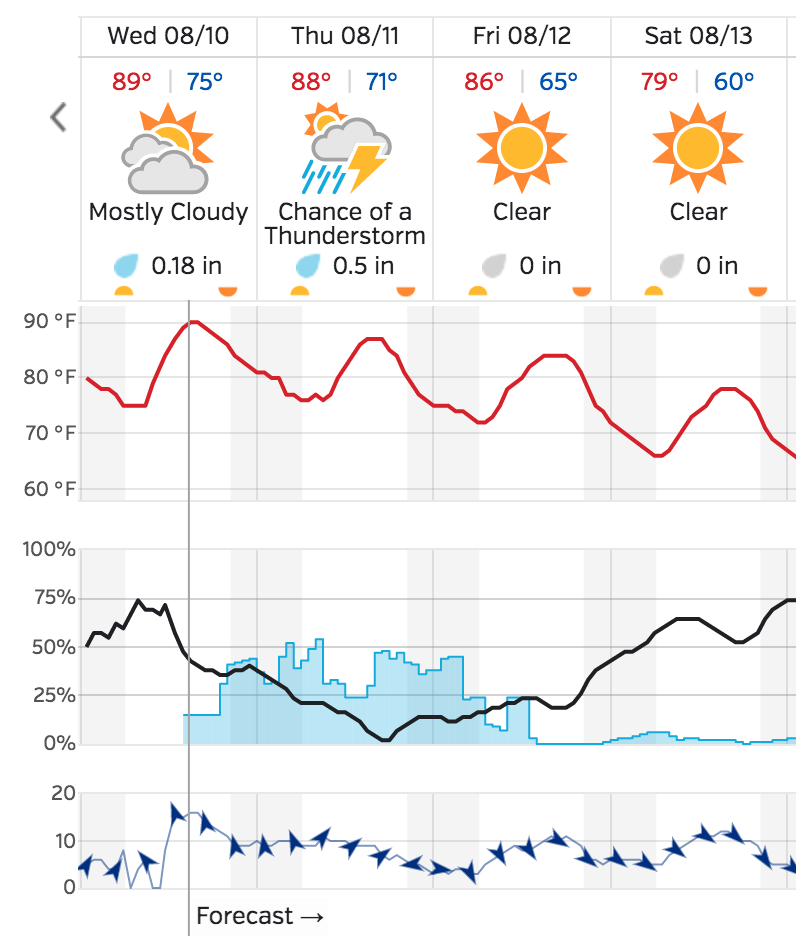
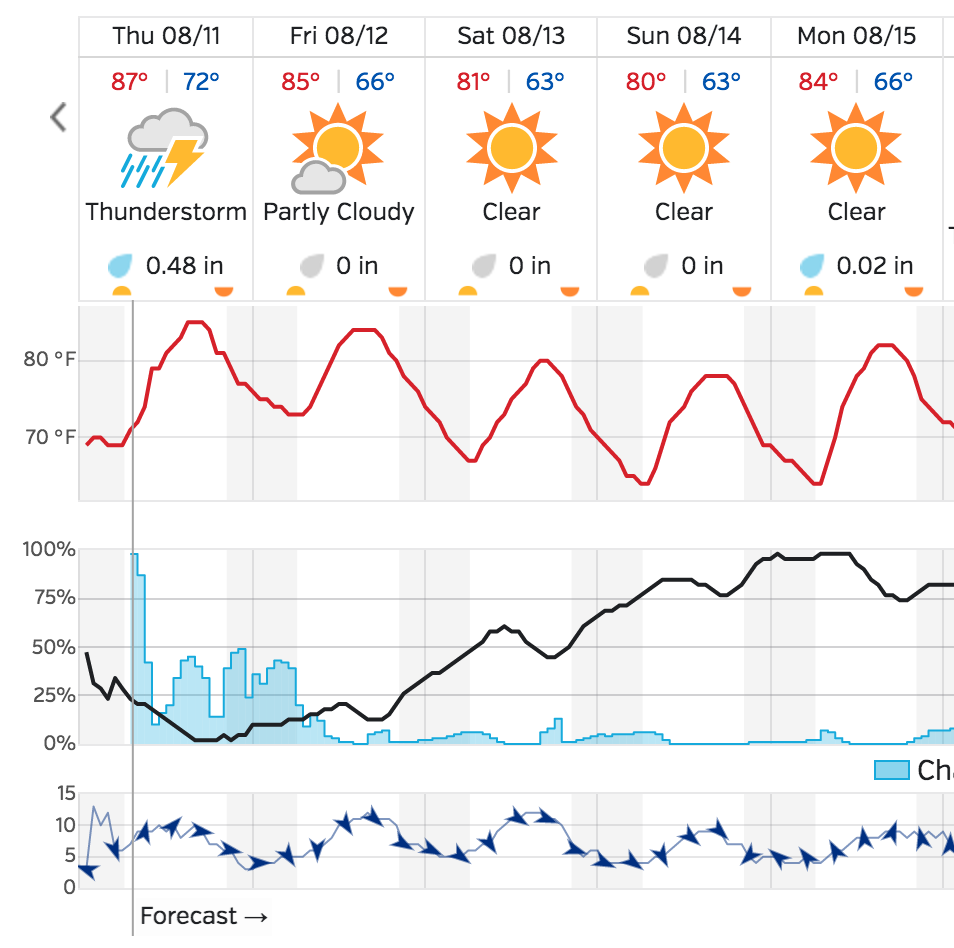
Added final remarks

diff --git a/javascript-flow/index.html b/javascript-flow/index.html
@@ -107,7 +107,7 @@
 				</section>
 
 				<section>
-					<h1 style="text-transform: none;">Using Flow</h1>
+					<p>Using Flow</p>
 				</section>
 
 				<section>
@@ -207,12 +207,36 @@
 				</section>
 
 				<section>
-					<p>Nullable types</p>
+					<p>Maybe types</p>
 					<code>let o: ?string</code>
 				</section>
 
 				<section>
 					<p>Flow coverage</p>
+				</section>
+
+				<section>
+					<p>Built-in types</p>
+				</section>
+
+				<section>
+					<p>The <code>any</code> type</p>
+				</section>
+
+				<section>
+					<p>The <code>mixed</code> type</p>
+					<code>function takesMixed(x: mixed): void {}</code>
+				</section>
+
+				<section>
+					<p>Other built-in type declarations</p>
+					<ul>
+						<li>JavaScript Standard Library</li>
+						<li>Browser Object Model</li>
+						<li>DOM</li>
+						<li>Node.js Standard Library</li>
+						<li>React</li>
+					</ul>
 				</section>
 
 				<section>
@@ -224,16 +248,24 @@
 				</section>
 
 				<section>
+					<p>Notable supported projects</p>
+					<ul>
+						<li>Express</li>
+						<li>Moment</li>
+						<li>Mocha</li>
+						<li>Rx.js</li>
+						<li>Underscore</li>
+						<li>Redux</li>
+					</ul>
+				</section>
+
+				<section>
 					<p>Editor support</p>
 					<ul>
 						<li><code>vim-flow</code></li>
 						<li><code>flow-for-vscode</code></li>
 						<li><code>nuclide</code></li>
 					</ul>
-				</section>
-
-				<section>
-					<p>Built-in types</p>
 				</section>
 
 				<section>

diff --git a/javascript-flow/README.md b/javascript-flow/README.md
@@ -8,9 +8,7 @@ I'm Aaron. If you've seen Key and Peele, when you hear Aaron, you might think A-
 
 [display image of key and peele a-a-ron]
 
-So if you see me after the talk and you want to chat. You can break the ice with something like "You done messed up A-A-RON".
-
-I work at a company call YA, formerly Young America, if you've ever sent in a paper rebate, you may remember sending it to Norwood Young America, Minnesota. So I work on a platform for digital marketing that includes rebates as part of the product line.
+So if you see me after the talk and you want to chat about flow. You can break the ice with something like "You done messed up A-A-RON".
 
 [display images of social media usernames]
 
@@ -18,7 +16,7 @@ You can find me on Twitter, Github at these places. I tweet about only really im
 
 [display image of Wunderground temps for Minneapolis]
 
-By the way, today the high temp for today will be.
+If you're wondering about the weather. Rain is the weather today, so it's a good day to be learning about flow.
 
 [display image asking for questions]
 
@@ -307,9 +305,9 @@ Flow offers enums. Here we have a `Response` type that can have any of the strin
 
 [display slide about maybe types]
 
-There are several different words to describe the concept of a variable that has a type that may or may not hold a value. C# has a Nullable generic type, Java has the Optional generic type, and Haskell has the Maybe. In all cases the idea is that the underlying value of a variable could be null or a completely different type.
+There are several different words to describe the concept of a variable that has a type that may or may not hold a value. C# has a Nullable generic type, Java has the Optional generic type, and Haskell has the Maybe. Flow calls these Maybe types. In all cases the idea is that the underlying value of a variable could be null or a completely different type.
 
-In the case on the screen the variable 'o' has be declared and could be a string, null, or undefined.
+In the case on the screen the variable 'o' maybe is a string and may be undefined or null.
 
 So far I've just scratched the surface of the expressiveness of flow's type system. There's much more that I won't be able to cover today. So it's worth a look at the documentation to see what flow offers.
 
@@ -338,25 +336,54 @@ So flow reports that we have about 66 percent coverage. So not having full cover
 
 So now we can see flow highlighting several areas that are affecting coverage. And if we add back the type annotation we can get to full coverage on this script. So the coverage report can be a very useful tool for identifying areas where useful types can be added.
 
+## Built-in types
+
+Flow offers a lot in the way of built-in types.
+
+[display slide about "Built in types"]
+
+Aside for the basic JavaScript types, string, number, boolean, null and void flow offers a few special types.
+
+[display slide about "any" type]
+
+The any type is simultaneously a subtype and supertype of everything. It's an outlier that is specially treated and it's often used when you just want to tell flow to get out of the way. Use of the `any` type should always be used with caution because in many ways it bypasses the type system.
+
+[display slide about "mixed" type]
+
+Flow offers another type called `mixed`. It's distinguishable from the `any` type because it is a supertype of everything but not a subtype of everything. The documentation describes mixed as a more annoying form of any. If a parameter has a mixed type flow still handles errors based on the underlying type of variable. So if the type is really a string flow won't ever throw an error when passing a string into a function like `takesMixed` on the screen. But if you try to call methods that strings don't have, you will get type errors. So it's often better to use the `mixed` type instead of the `any` type to get the maximum benefits from using flow.
+
+[display slide about other built-in types]
+
+Flow also offers the necessary type declarations for the JavaScript standard library, browser object APIs and the DOM APIs. And the node.js standard library.
+
+And the last set of library definitions flow offers is specifically for working with React. Flow has a built-in understanding of prop types and state, and can work with JSX out-of-the-box.
+
 ## Working with code you don't own
 
 [display title slide "Working with code you don't own"]
 
 It's a reality to be working with third-party code that you didn't write and probably doesn't have types exported. The community for having types in JavaScript is small compared to the overall size of the entire community. So a lot of libraries won't have type definitions.
 
+[display slide about the flow-typed repo]
+
 The `flow-typed` repo is the spot for community supplied type definitions for flow. So several popular libraries are included for support, but many more are missing.
+
+[display slide about notable projects]
+
+If you're looking to use flow, it might take time to get the definitions for third-party libraries that you intend to use. And that very similar to what you would run into if you go the route of using TypeScript.
 
 Some notable inclusions:
 
-Express
-Moment
-mocha
-rx.js
-underscore
-redux
-
+* Express
+* Moment
+* Mocha
+* Rx.js
+* Underscore
+* Redux
 
 ## Editor support
+
+[display next slide]
 
 The editor support for flow is alright in my opinion. I don't use vim myself so I didn't go ahead and try the plugin. The vim users out there will have to try it for themselves. There we're a couple plugins for sublime text, but I really didn't like them, they we're very visually intrusive. I personally like the visuals that the flow plugin for VS Code provides, let's take a look.
 
@@ -368,10 +395,14 @@ The editor support for flow is alright in my opinion. I don't use vim myself so 
 
 After looking at the plugins for these popular editors the issue I run into is that the flow command is leaps and bounds more useful and more informative over any of the IDE support. so I don't feel like I'm getting enough out of plugins.
 
-## Built-in types
-
 ## Learning more about flow
+
+[display slide about learning more about flow]
 
 There's a lot about flow that I wasn't able to get to today. I hope I was able to give you a better understanding of what flow is all about. If you have familiarity with TypeScript I'm sure you could draw a lot of parallels.
 
 To learn more about flow I would push you to read the documentation. It's a good place to get started, but it does leave you with a lot of questions. The flow team is active on twitter so if you have questions you can likely get them answered pretty quickly.
+
+[display thanks and questions slide]
+
+I would like to thank everyone for coming to learn about flow and I believe that I have time for questions any questions that weren't answered during the talk.
